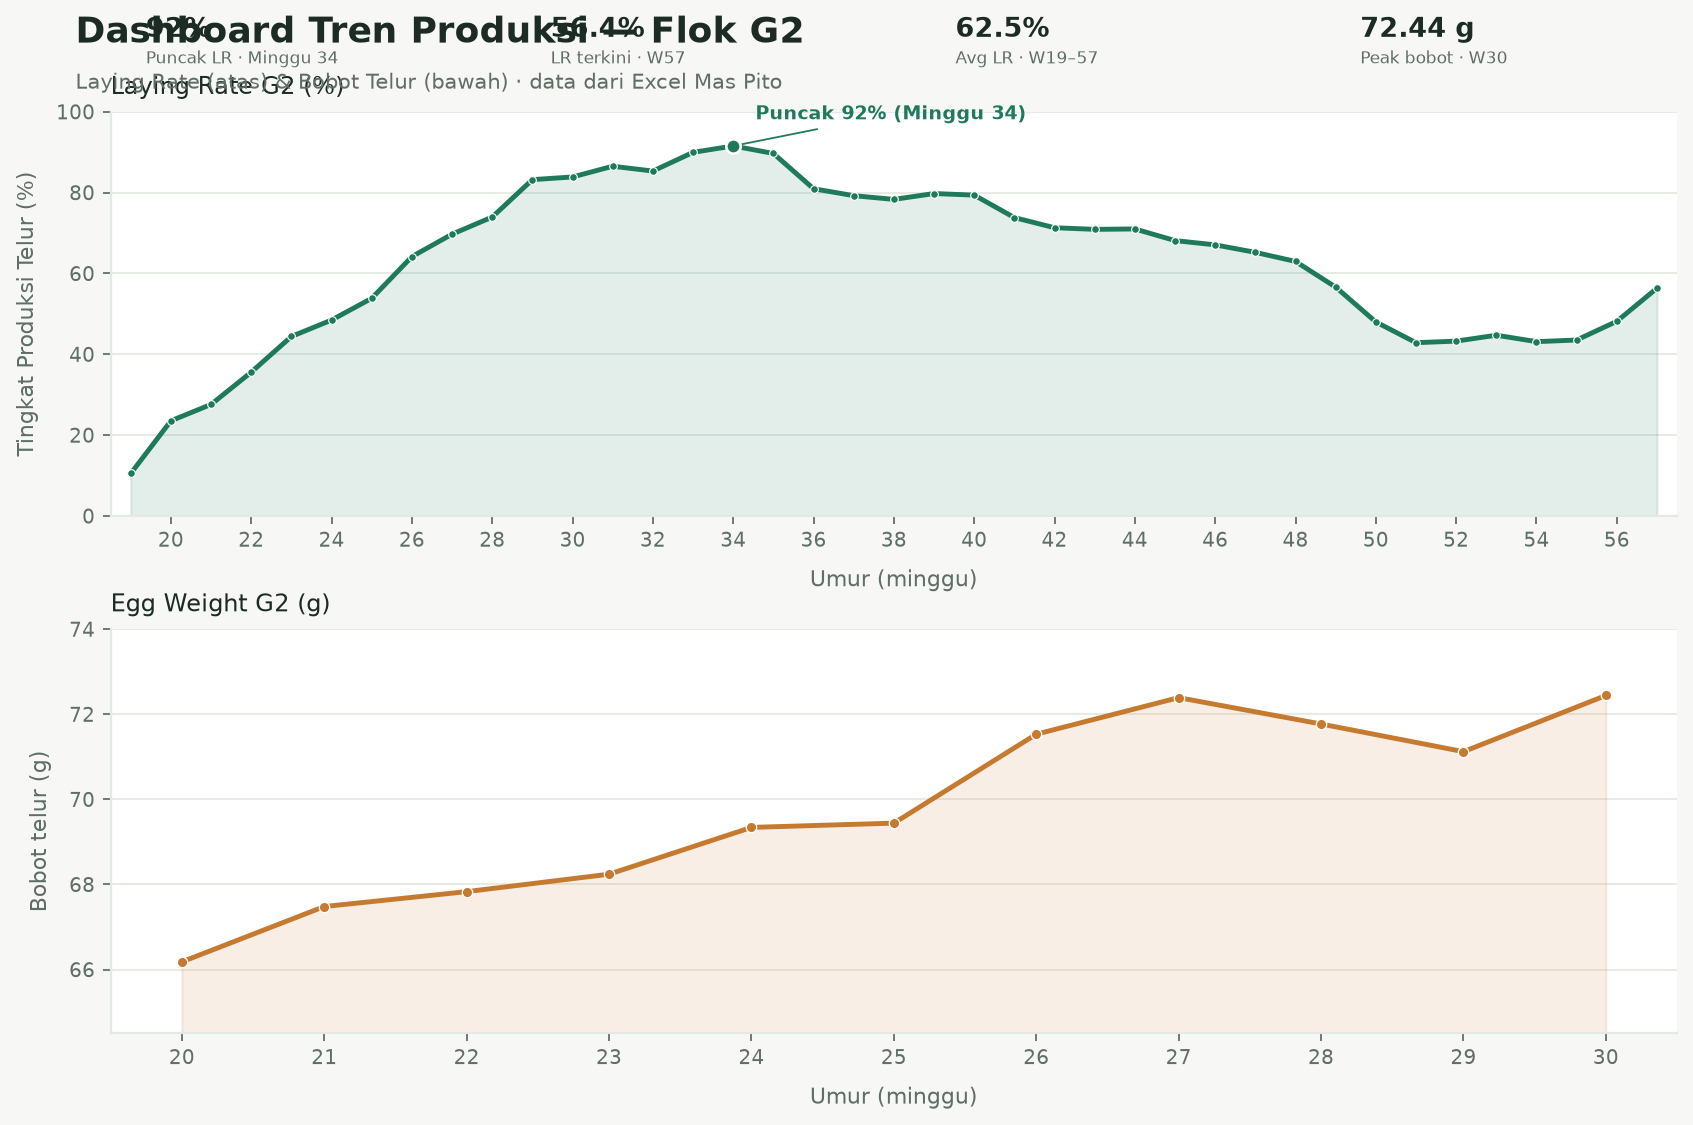
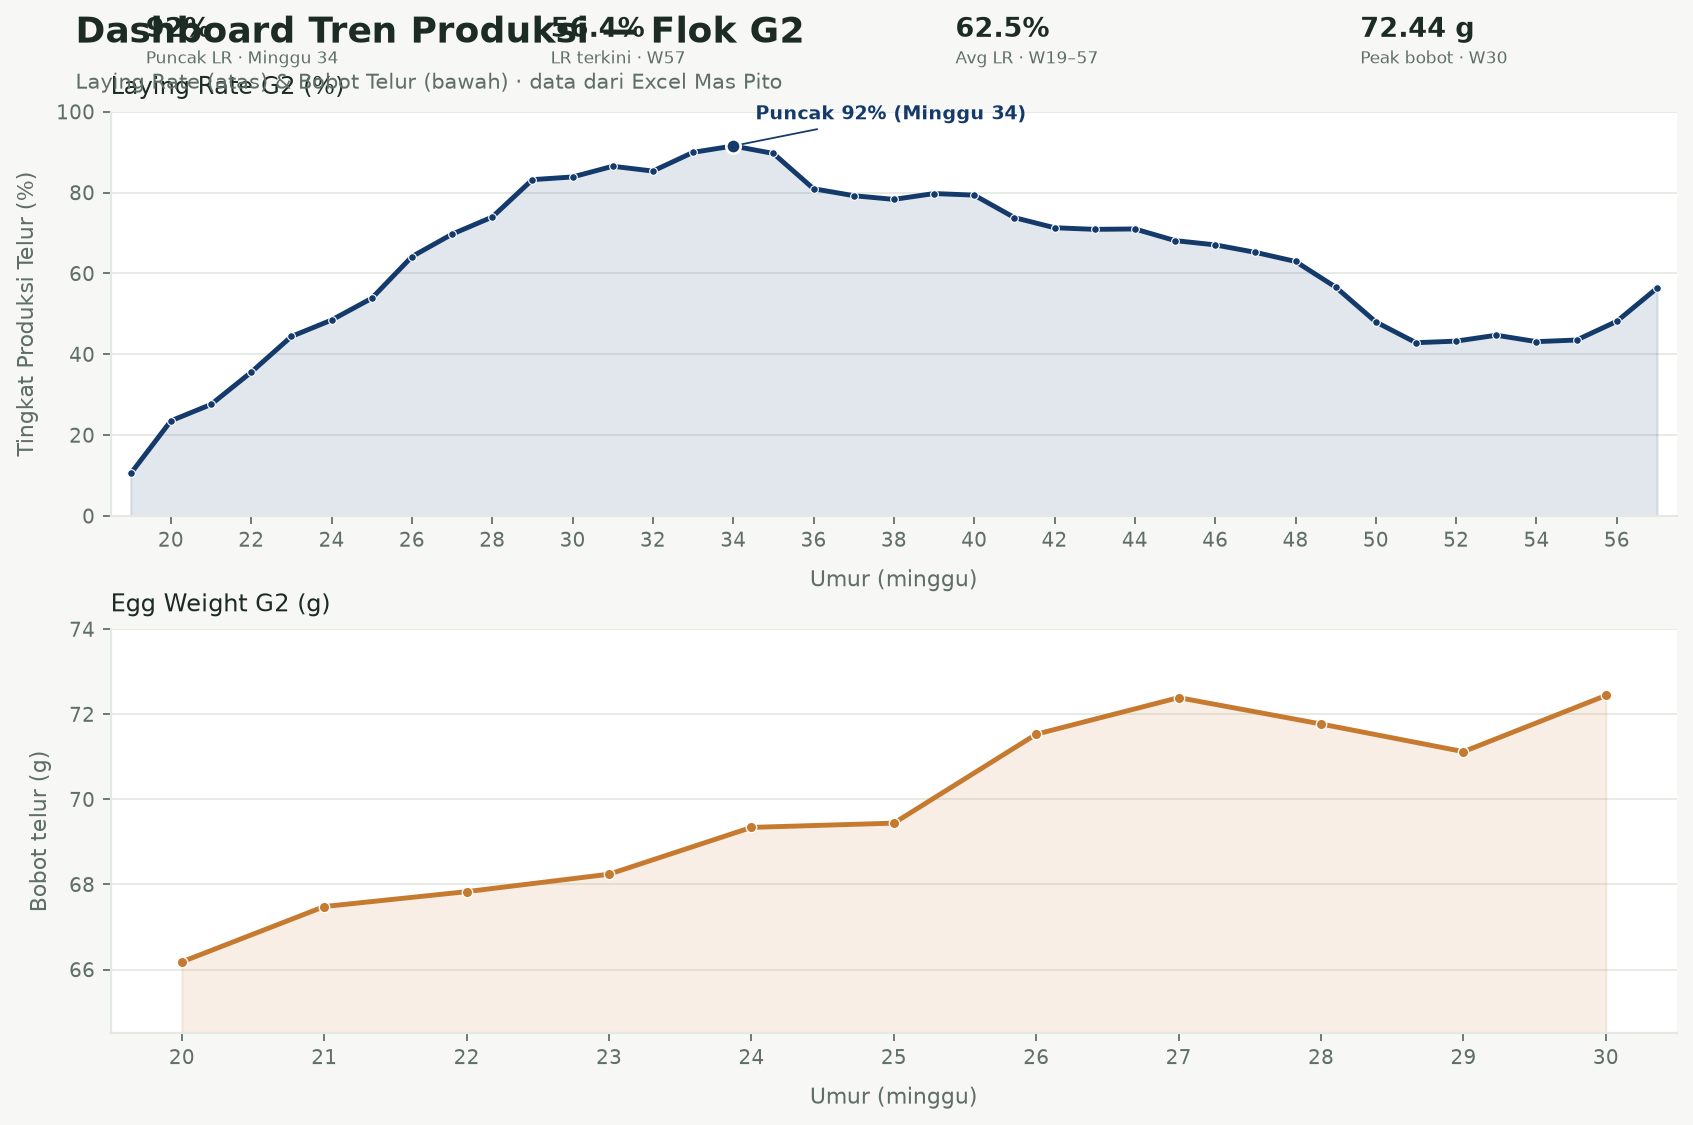
Ubah warna grafik Laying Rate ke biru tua
Ganti palet teal menjadi navy #143A6B pada garis, area fill, dan anotasi.

diff --git a/charts/dashboard.html b/charts/dashboard.html
@@ -16,8 +16,8 @@
       --ink: #1c2b24;
       --muted: #5f6f66;
       --line: #dde4dd;
-      --lr: #1f7a5c;
-      --lr-soft: rgba(31, 122, 92, 0.14);
+      --lr: #143a6b;
+      --lr-soft: rgba(20, 58, 107, 0.14);
       --ew: #c67a2f;
       --ew-soft: rgba(198, 122, 47, 0.14);
       --accent: #2e6b8a;
@@ -126,7 +126,7 @@
       margin-top: 14px;
       padding: 12px 14px;
       border-left: 3px solid var(--lr);
-      background: #f0f5f1;
+      background: #eef2f7;
       border-radius: 0 10px 10px 0;
       color: var(--muted);
       font-size: 0.88rem;
@@ -264,8 +264,8 @@
           {
             label: "Laying Rate G2",
             data: LR_G2,
-            borderColor: "#1f7a5c",
-            backgroundColor: "rgba(31,122,92,0.14)",
+            borderColor: "#143a6b",
+            backgroundColor: "rgba(20,58,107,0.14)",
             fill: true,
             tension: 0.35,
             pointRadius: 2.5,
@@ -275,7 +275,7 @@
           {
             label: "Upper (±1 SD)",
             data: LR_G2.map((v,i)=> +(v+LR_STD[i]).toFixed(2)),
-            borderColor: "rgba(31,122,92,0.25)",
+            borderColor: "rgba(20,58,107,0.25)",
             backgroundColor: "transparent",
             borderDash: [4,4],
             pointRadius: 0,
@@ -285,7 +285,7 @@
           {
             label: "Lower (±1 SD)",
             data: LR_G2.map((v,i)=> +Math.max(0, v-LR_STD[i]).toFixed(2)),
-            borderColor: "rgba(31,122,92,0.25)",
+            borderColor: "rgba(20,58,107,0.25)",
             backgroundColor: "transparent",
             borderDash: [4,4],
             pointRadius: 0,
@@ -308,7 +308,7 @@
                 type: "point",
                 xValue: 15,
                 yValue: 91.53,
-                backgroundColor: "#1f7a5c",
+                backgroundColor: "#143a6b",
                 borderColor: "#fff",
                 borderWidth: 2,
                 radius: 5,
@@ -316,7 +316,7 @@
                   display: true,
                   content: "Puncak 92% (Minggu 34)",
                   position: "top",
-                  backgroundColor: "#1f7a5c",
+                  backgroundColor: "#143a6b",
                   color: "#fff",
                   font: { size: 10, weight: "600" },
                   padding: 4,
@@ -411,8 +411,8 @@
         labels: EW_WEEKS,
         datasets: [{
           data: overlapLR,
-          borderColor: "#1f7a5c",
-          backgroundColor: "rgba(31,122,92,0.14)",
+          borderColor: "#143a6b",
+          backgroundColor: "rgba(20,58,107,0.14)",
           fill: true,
           tension: 0.35,
           pointRadius: 3,

diff --git a/scripts/generate_charts.py b/scripts/generate_charts.py
@@ -13,14 +13,14 @@ from matplotlib.ticker import MultipleLocator
 OUT = Path(__file__).resolve().parents[1] / "charts"
 OUT.mkdir(parents=True, exist_ok=True)
 
-# Theme — clean agricultural teal / amber (modern flat analytics)
+# Theme — dark blue LR + amber egg weight (modern flat analytics)
 BG = "#F7F8F5"
 PANEL = "#FFFFFF"
 INK = "#1C2B24"
 MUTED = "#5F6F66"
 GRID = "#E4E9E4"
-LR_COLOR = "#1F7A5C"
-LR_FILL = "#1F7A5C"
+LR_COLOR = "#143A6B"
+LR_FILL = "#143A6B"
 EW_COLOR = "#C67A2F"
 EW_FILL = "#C67A2F"
 ACCENT = "#2E6B8A"
